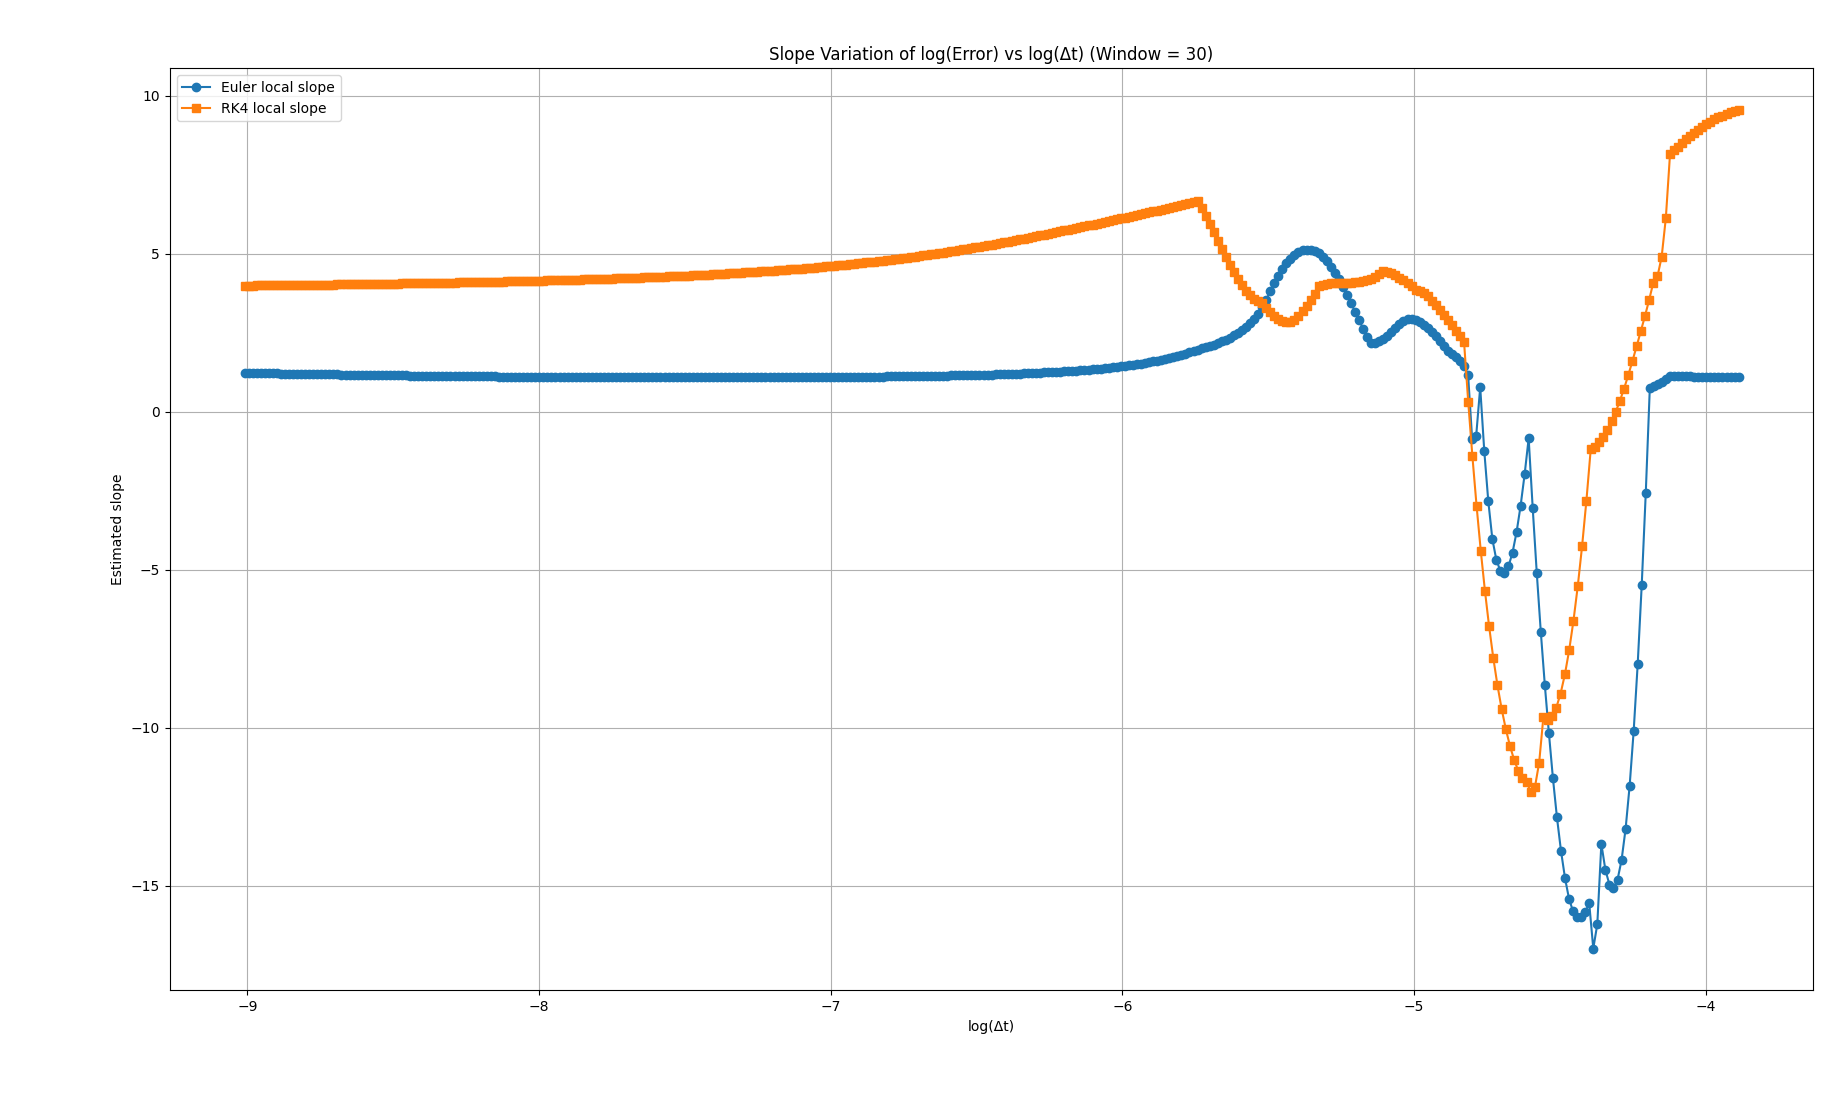
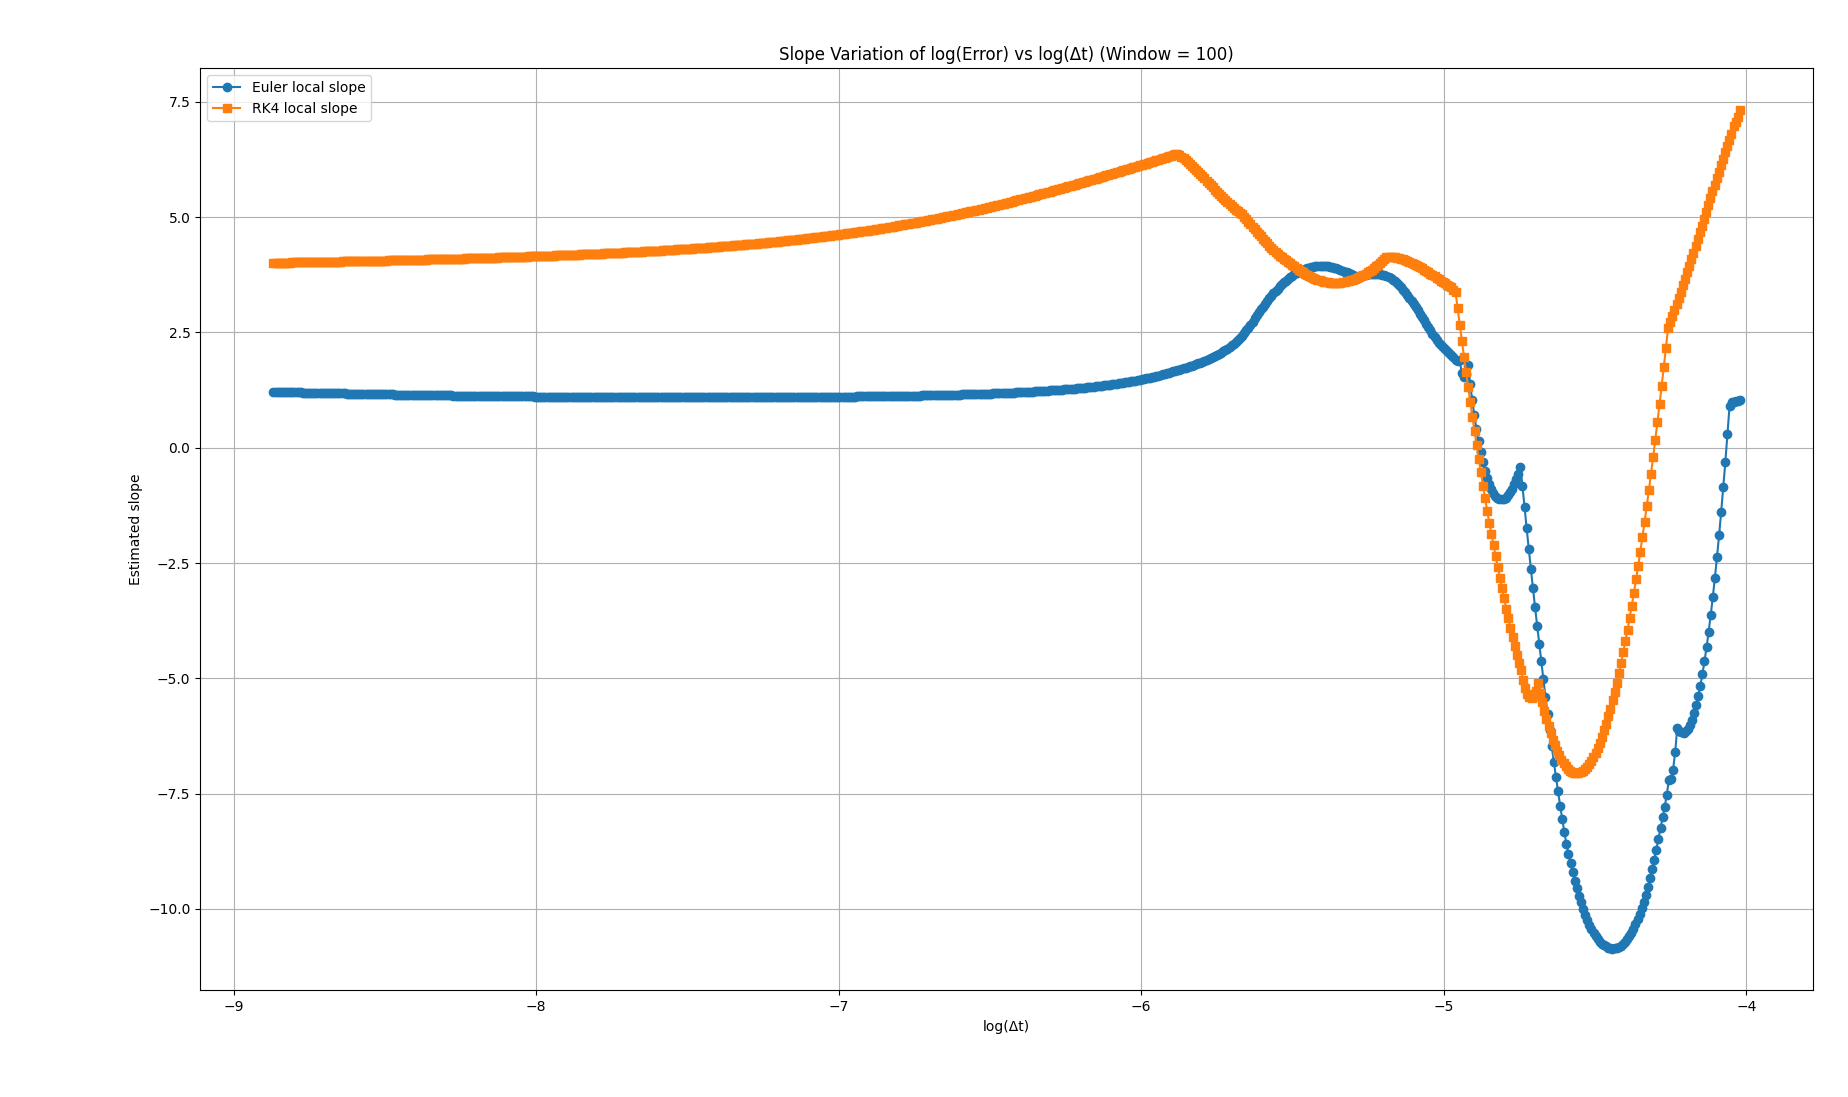
Corrected some code

diff --git a/Projectil_Trajectory/precision.py b/Projectil_Trajectory/precision.py
@@ -6,7 +6,7 @@ import runge_kutta
 import numerical
 
 # Step sizes (logarithmic scale)
-step_sizes = np.logspace(-4, -1, num=500)[::-1]
+step_sizes = np.logspace(-4, -1, num=1000)[::-1]
 
 euler_errors = []
 rk4_errors = []
@@ -89,17 +89,49 @@ log_dt_rk4 = np.log(step_sizes_rk4_final)
 log_err_rk4 = np.log(rk4_errors_final)
 slope_rk4_full, _, _, _, _ = linregress(log_dt_rk4, log_err_rk4)
 
-N_final = 50
-slope_euler_final, _, _, _, _ = linregress(log_dt_euler[len(log_dt_euler) - N_final:len(log_dt_euler)], log_err_euler[len(log_dt_euler) - N_final:len(log_dt_euler)])
-slope_rk4_final, _, _, _, _ = linregress(log_dt_rk4[len(log_dt_rk4) - N_final:len(log_dt_rk4)], log_err_rk4[len(log_dt_rk4) - N_final:len(log_dt_rk4)])
-
+N_final = 100
+slope_euler_final, _, _, _, _ = linregress(
+    log_dt_euler[len(log_dt_euler)-N_final:len(log_dt_euler)], log_err_euler[len(log_dt_euler)-N_final:len(log_dt_euler)]
+)
+slope_rk4_final, _, _, _, _ = linregress(
+    log_dt_rk4[len(log_dt_rk4)-N_final:len(log_dt_rk4)], log_err_rk4[len(log_dt_rk4)-N_final:len(log_dt_rk4)]
+)
 print(f"Slope (Euler, full):             {slope_euler:.2f}")
 print(f"Slope (RK4, full):               {slope_rk4_full:.2f}")
 print(f"Slope (Euler, final {N_final}): {slope_euler_final:.2f}")
 print(f"Slope (RK4, final {N_final}): {slope_rk4_final:.2f}")
 
+# === SLOPE PLOT ===
+slope_euler_list = []
+slope_rk4_list = []
+
+for k in range(2, len(log_dt_euler)):
+    slope_euler_k, _, _, _, _ = linregress(
+        log_dt_euler[len(log_dt_euler)-k:len(log_dt_euler)], log_err_euler[len(log_dt_euler)-k:len(log_dt_euler)]
+    )
+    slope_euler_list.append(slope_euler_k)
+
+for k in range(2, len(log_dt_rk4)):
+    slope_rk4_k, _, _, _, _ = linregress(
+        log_dt_rk4[len(log_dt_rk4)-k:len(log_dt_rk4)], log_err_rk4[len(log_dt_rk4)-k:len(log_dt_rk4)]
+    )
+    slope_rk4_list.append(slope_rk4_k)
+
+plt.figure(figsize=(8, 6))
+plt.plot(log_dt_euler[-len(slope_euler_list):], slope_euler_list, label='Euler slope')
+plt.plot(log_dt_rk4[-len(slope_rk4_list):], slope_rk4_list, label='RK4 slope')
+plt.xlabel("log(Δt)")
+plt.ylabel("slope")
+plt.title("Variation of slope (from end to beginning)")
+plt.grid(True)
+plt.legend()
+plt.tight_layout()
+plt.show()
+
+
+
 # === SLIDING WINDOW SLOPE VARIATION ===
-window = 30
+window = 100
 
 def compute_sliding_slope(log_x, log_y, w):
     slopes = []

diff --git a/Projectil_Trajectory/main.py b/Projectil_Trajectory/main.py
@@ -6,7 +6,7 @@ import runge_kutta
 import numerical
 
 # Parameters
-params = dict(x0=10, z0=5, vx0=70, vz0=30, u_val=3, m_val=1, g_val=9.8, delta=0.001, t_final=4000)
+params = dict(x0=10, z0=5, vx0=70, vz0=30, u_val=3, m_val=1, g_val=9.8, delta=1e-3, t_final=10000)
 
 # Run methods
 ex, ez, evx, evz, et = euler.main(**params, if_plot=False)
